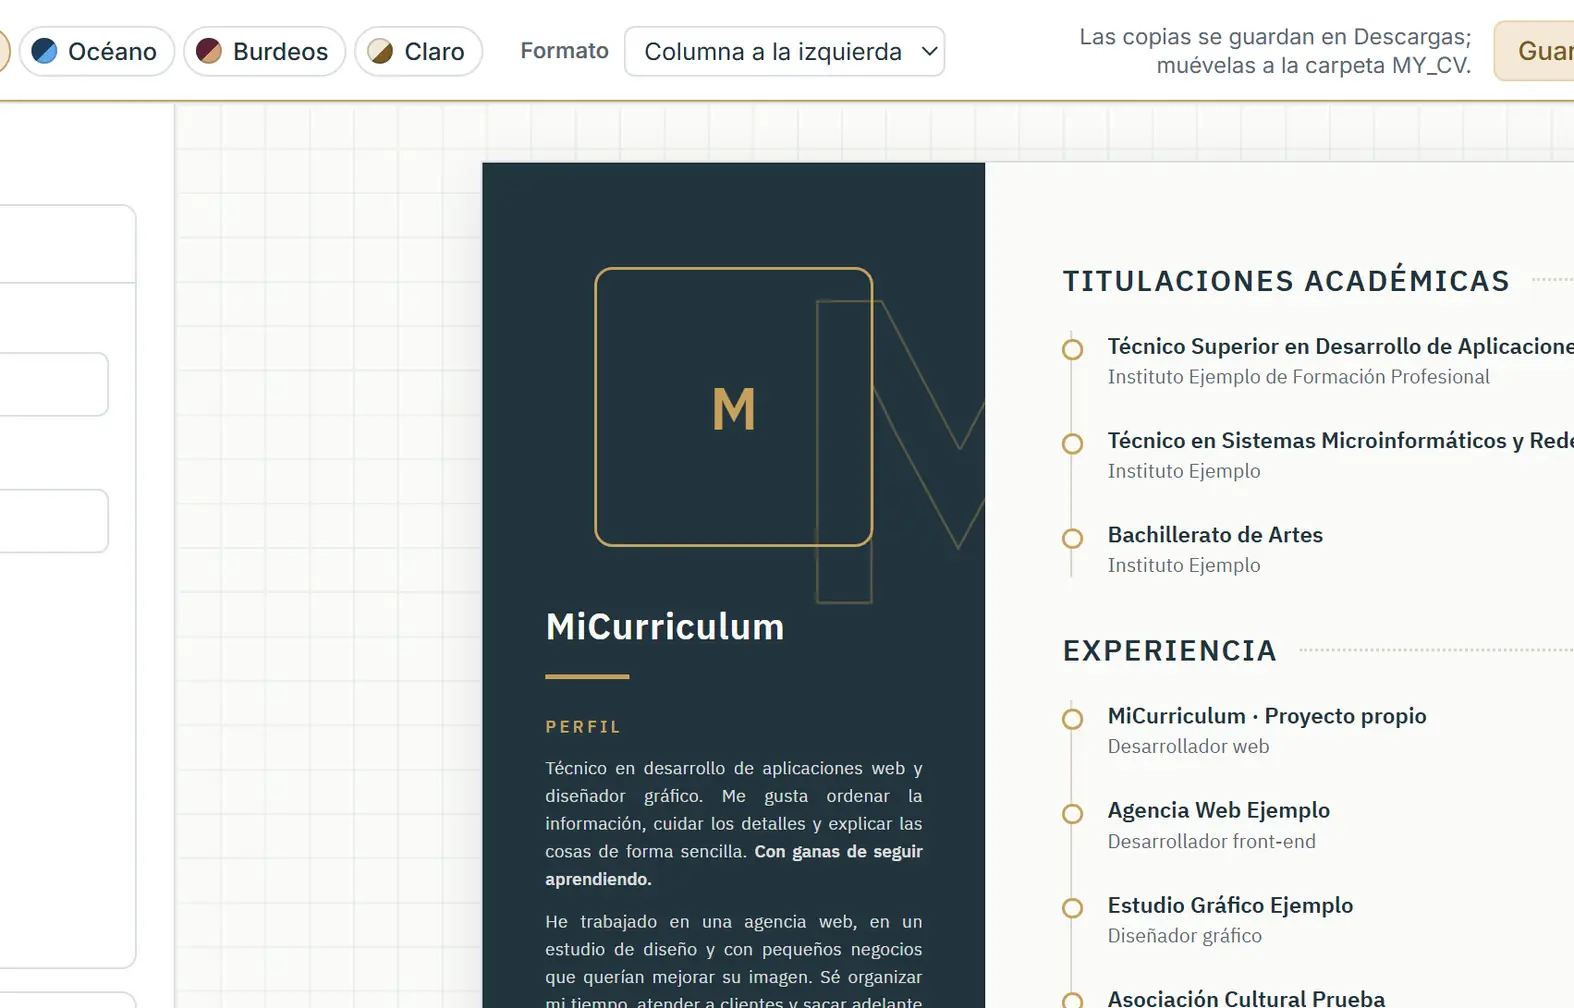
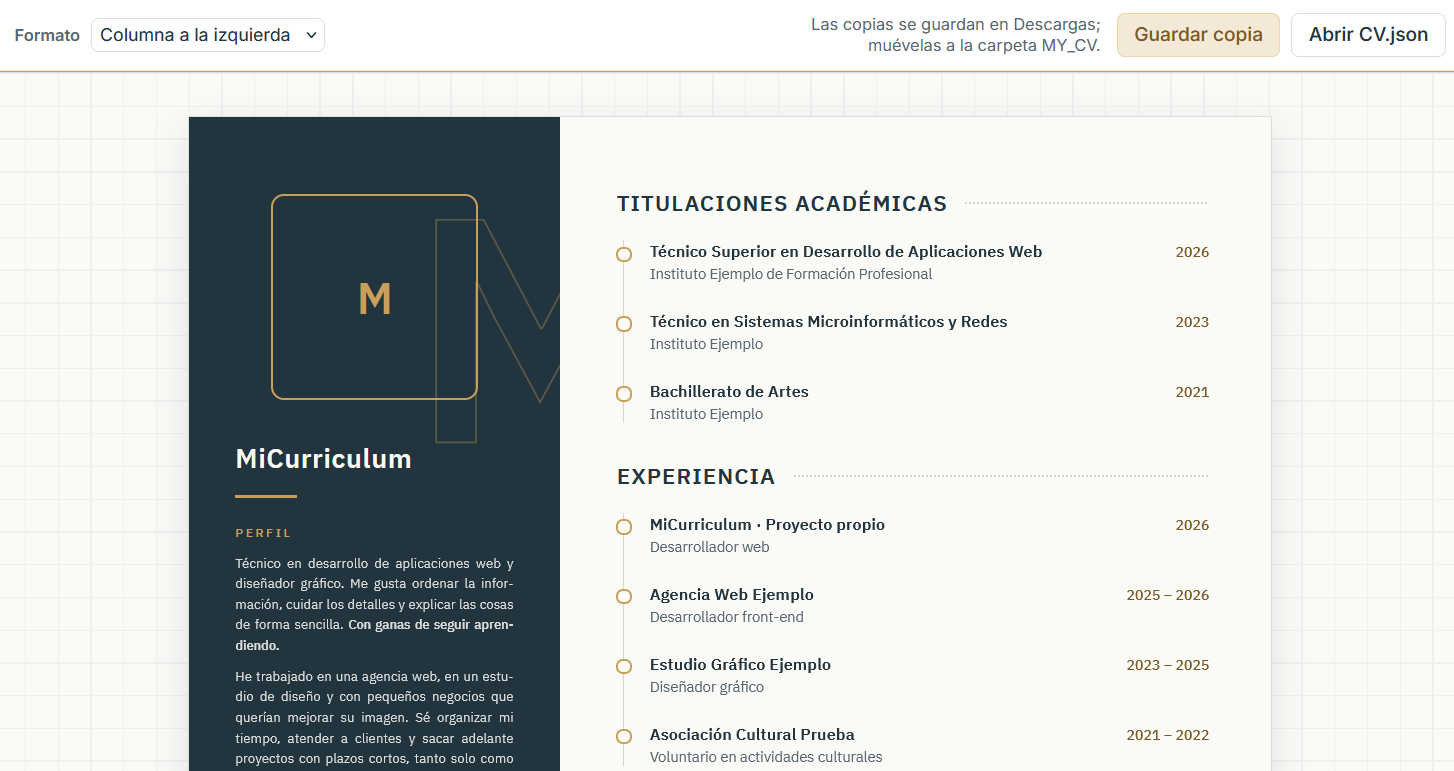
MiCurriculum: imagen del propietario, mismo marco que las otras tarjetas

diff --git a/index.html b/index.html
@@ -272,12 +272,12 @@
           <article class="app app--wide reveal" style="--app:#C7A15B" aria-labelledby="mc-title">
             <a class="app__shot" href="https://github.com/juangalisteo/micurriculum" tabindex="-1" aria-hidden="true">
               <span class="app__glow"></span>
-              <img src="/assets/img/micurriculum.webp" alt="" width="1574" height="1008" loading="lazy">
+              <img src="/assets/img/micurriculum.webp" alt="" width="1454" height="771" loading="lazy">
             </a>
             <div class="app__body">
               <p class="kind">Aplicación web · v1.0.0</p>
               <h3 id="mc-title">MiCurriculum</h3>
-              <p>Haz tu currículum de una página en el navegador: rellenas el formulario, ves la hoja al momento, eliges tema y formato, y lo exportas en PDF. Sin cuentas y sin Internet: los datos no salen de tu equipo.</p>
+              <p>Haz tu currículum de una página en el navegador: rellenas el formulario, ves la hoja al momento, eliges tema y formato, ordenas los apartados y lo exportas en PDF.</p>
               <ul class="tags"><li>HTML</li><li>CSS</li><li>JavaScript</li><li>localStorage</li><li>Pruebas automáticas</li></ul>
               <a class="link" href="https://github.com/juangalisteo/micurriculum">Ver en GitHub</a>
             </div>

diff --git a/assets/css/styles.css b/assets/css/styles.css
@@ -406,12 +406,10 @@ h3 { font-size: clamp(24px, 2.4vw, 30px); line-height: 1.15; font-weight: 600; l
   grid-column: 1 / -1; display: grid;
   grid-template-columns: repeat(3, minmax(0, 1fr)); column-gap: var(--gap); align-items: start;
 }
-.app--wide .app__shot { grid-column: 1 / 3; aspect-ratio: 16 / 10; padding: 0; }
-.app--wide .app__shot img {
-  height: calc(100% + 12px); object-fit: cover; object-position: top;
-  border-radius: 0; box-shadow: none;
-}
-.app--wide .app__body { grid-column: 3; padding-top: 0; }
+/* Mismo marco que las otras; la imagen se ve entera y nunca más grande que su tamaño real (1454 px) */
+.app--wide .app__shot { grid-column: 1 / 3; aspect-ratio: auto; }
+.app--wide .app__shot img { display: block; max-width: 1454px; margin-inline: auto; }
+.app--wide .app__body { grid-column: 3; padding-top: 28px; }
 
 /* ---------- Método ---------- */
 .method { position: relative; overflow: hidden; isolation: isolate; background: var(--tinta); color: var(--blanco); padding: clamp(88px, 11vw, 150px) 0; }
